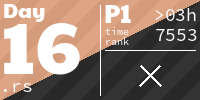
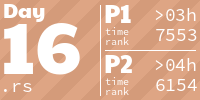
day 16 - part 2

diff --git a/src/day16.rs b/src/day16.rs
@@ -1,4 +1,7 @@
-use std::{collections::HashMap, convert::identity};
+use std::{
+    collections::{HashMap, HashSet},
+    convert::identity,
+};
 
 use crate::utils::*;
 
@@ -6,13 +9,16 @@ use crate::utils::*;
 // p1
 //--------------------------------------------------------------------------------
 
-fn p1(input: &str) -> i32 {
+fn score_per_pos(input: &str) -> (i32, HashMap<(V2, Dir), i32>) {
+    let mut min_score = i32::MAX;
     let mut matrix = Matrix::from_str(input, identity);
     let start = matrix.find_first('S').unwrap();
     let finish = matrix.find_first('E').unwrap();
     matrix.set(&start, '.');
     matrix.set(&finish, '.');
 
+    // we are going to keep the score at each position
+    // if we ever reach the same position with a higher score, we stop
     let mut visited = HashMap::new();
 
     let mut to_explore = vec![(start, Dir::Right, 0)];
@@ -22,13 +28,20 @@ fn p1(input: &str) -> i32 {
             continue;
         }
 
-        if let Some(prev_score) = visited.get(&pos) {
+        if let Some(prev_score) = visited.get(&(pos, dir)) {
             if score >= *prev_score {
                 // been there already with a lower score...
                 continue;
             }
         }
-        visited.insert(pos, score);
+        visited.insert((pos, dir), score);
+
+        if pos == finish {
+            if score < min_score {
+                min_score = score;
+            }
+            continue;
+        }
 
         let nx = pos.add(&dir.to_v2());
         to_explore.push((nx, dir, score + 1));
@@ -42,12 +55,68 @@ fn p1(input: &str) -> i32 {
         to_explore.push((nx_right, right_dir, score + 1 + 1000));
     }
 
-    *visited.get(&finish).unwrap()
+    (min_score, visited)
+}
+
+fn p1(input: &str) -> i32 {
+    let (score, _) = score_per_pos(input);
+    score
 }
 
 //--------------------------------------------------------------------------------
 // p2
 //--------------------------------------------------------------------------------
+
+fn p2(input: &str) -> usize {
+    let (p1_score, visited) = score_per_pos(input);
+
+    let mut matrix = Matrix::from_str(input, identity);
+    let start = matrix.find_first('S').unwrap();
+    let finish = matrix.find_first('E').unwrap();
+    matrix.set(&start, '.');
+    matrix.set(&finish, '.');
+
+    let mut all_seats = HashSet::new();
+
+    let mut to_explore = vec![(start, Dir::Right, 0, vec![])];
+    while let Some((pos, dir, score, path)) = to_explore.pop() {
+        if matrix.get(&pos) != Some('.') {
+            // we hit a wall
+            continue;
+        }
+
+        if let Some(prev_score) = visited.get(&(pos, dir)) {
+            if score > *prev_score {
+                continue;
+            }
+        }
+
+        if pos == finish {
+            if score == p1_score {
+                for seat in path {
+                    all_seats.insert(seat);
+                }
+                continue;
+            }
+        }
+
+        let mut path = path.clone();
+        path.push(pos);
+
+        let nx = pos.add(&dir.to_v2());
+        to_explore.push((nx, dir, score + 1, path.clone()));
+
+        let left_dir = dir.rot_left();
+        let nx_left = pos.add(&left_dir.to_v2());
+        to_explore.push((nx_left, left_dir, score + 1 + 1000, path.clone()));
+
+        let right_dir = dir.rot_right();
+        let nx_right = pos.add(&right_dir.to_v2());
+        to_explore.push((nx_right, right_dir, score + 1 + 1000, path));
+    }
+
+    1 + all_seats.len()
+}
 
 //--------------------------------------------------------------------------------
 // main
@@ -55,11 +124,12 @@ fn p1(input: &str) -> i32 {
 
 pub fn run() {
     pp_day("day16: Warehouse Woes");
-    time_it(p1, "p1", "data/16_sample.txt");
-    time_it(p1, "p1", "data/16_sample2.txt");
+    // time_it(p1, "p1", "data/16_sample.txt");
+    // time_it(p1, "p1", "data/16_sample2.txt");
     time_it(p1, "p1", "data/16_input.txt");
     // time_it(p2, "p2", "data/16_sample.txt");
-    // time_it(p2, "p2", "data/16_input.txt");
+    // time_it(p2, "p2", "data/16_sample2.txt");
+    time_it(p2, "p2", "data/16_input.txt");
 }
 
 #[cfg(test)]
@@ -70,5 +140,7 @@ mod tests {
     fn test() {
         assert_eq!(run_it(p1, "data/16_sample.txt"), 7036);
         assert_eq!(run_it(p1, "data/16_sample2.txt"), 11048);
+        assert_eq!(run_it(p2, "data/16_sample.txt"), 45);
+        assert_eq!(run_it(p2, "data/16_sample2.txt"), 64);
     }
 }

diff --git a/src/utils.rs b/src/utils.rs
@@ -84,6 +84,13 @@ impl V2 {
     }
 }
 
+impl Display for V2 {
+    fn fmt(&self, f: &mut fmt::Formatter) -> fmt::Result {
+        write!(f, "({},{})", self.x, self.y)?;
+        Ok(())
+    }
+}
+
 //--------------------------------------------------------------------------------
 // v3
 //--------------------------------------------------------------------------------

diff --git a/README.md b/README.md
@@ -1,6 +1,6 @@
 <!-- AOC TILES BEGIN -->
 <h1 align="center">
-  2024 - 31 ⭐ - Rust
+  2024 - 32 ⭐ - Rust
 </h1>
 <a href="src/day01.rs">
   <img src=".aoc_tiles/tiles/2024/01.png" width="161px">
